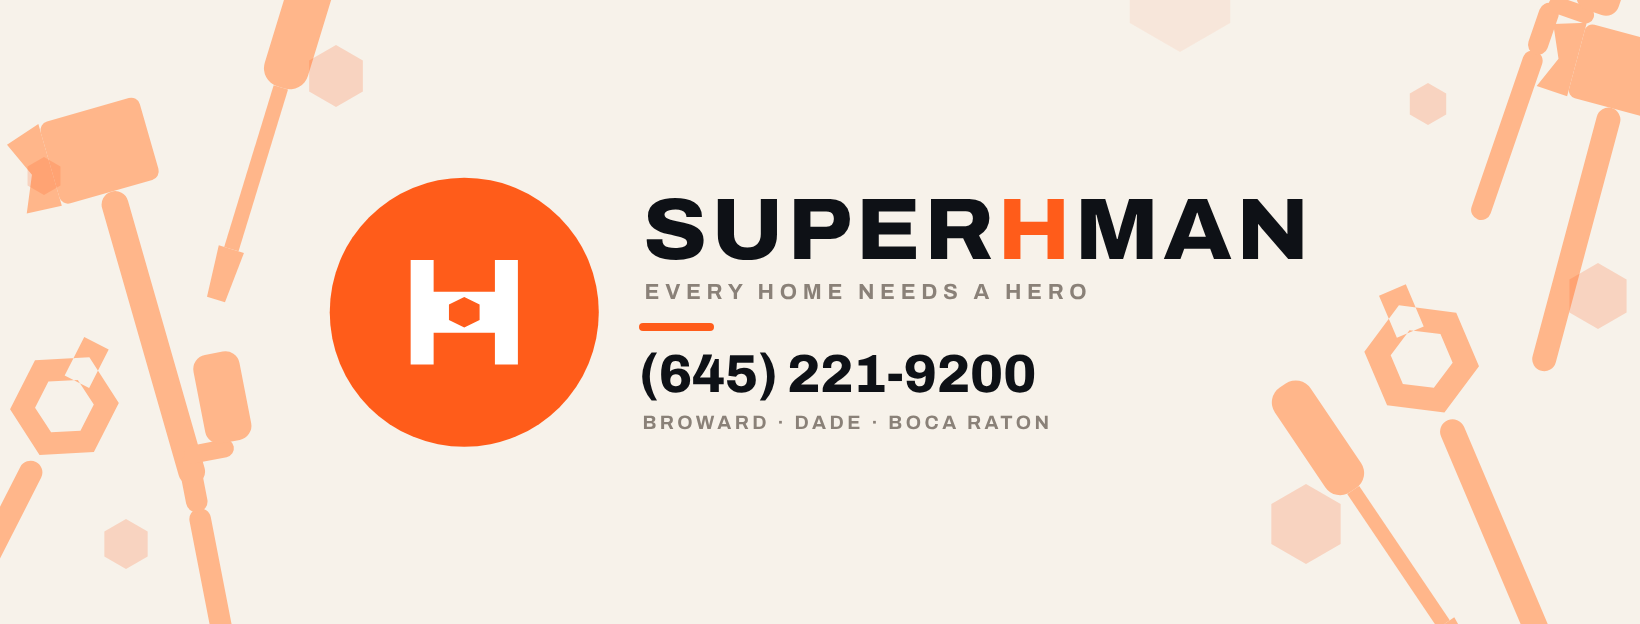
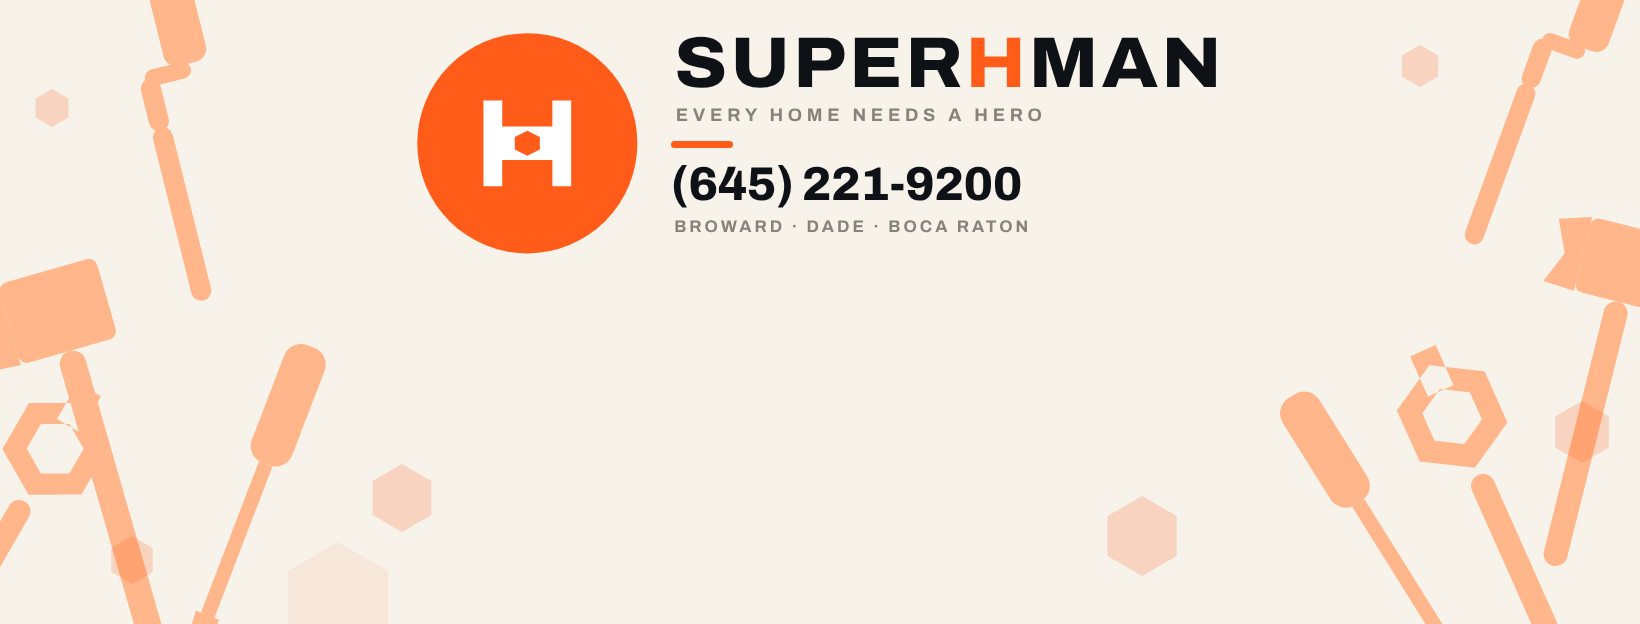
Handyman: keep both FB covers clear of the profile picture
Facebook centres the round profile picture over the cover's bottom
edge, on desktop and phone alike -- not bottom-left as the earlier
comments claimed. It covered the phone number, which Andy's own
setup preview showed.

Both covers now sit the lockup in the top band, nothing below y ~270,
and the illustration moved out from under it. Verified by compositing
a circle at the real position over the rendered PNG.

Claude-Session: https://claude.ai/code/session_01MvQfMaDaGfqE4JGxZjyFS6

diff --git a/design/handyman-card/fb-cover-ilustrada.html b/design/handyman-card/fb-cover-ilustrada.html
@@ -12,9 +12,11 @@
   1. Las herramientas viven SOLO en los tercios de afuera (x < 340 y x > 1300).
      El centro queda de papel limpio para que el emblema y el texto respiren.
   2. El celular recorta los costados y deja más o menos el centro de 1100px,
-     así que lo que se pierde ahí es textura, nunca información. En escritorio
-     Facebook encima la foto de perfil redonda abajo a la izquierda: esa
-     esquina queda sin nada importante.
+     así que lo que se pierde ahí es textura, nunca información.
+  3. Facebook encima la foto de perfil redonda CENTRADA sobre el borde de
+     abajo, tanto en escritorio como en celular. Ocupa más o menos
+     x 640..1000, y 330..624. Por eso el bloque vive arriba: nada baja de
+     y ~260. No mover el lockup al centro vertical.
 -->
 <html lang="en">
 <head>
@@ -38,24 +40,25 @@
     -webkit-print-color-adjust:exact;print-color-adjust:exact;
   }
   .art{position:absolute;inset:0;width:100%;height:100%}
-  .safe{position:absolute;inset:0;display:flex;align-items:center;justify-content:center;gap:6vh}
-  .emblem{width:44vh;height:44vh;flex:none;display:block}
+  .safe{position:absolute;inset:0;display:flex;align-items:flex-start;justify-content:center;
+        gap:5vh;padding-top:5vh}
+  .emblem{width:36vh;height:36vh;flex:none;display:block}
   .word{
-    font-size:14vh;font-weight:800;font-stretch:106%;
+    font-size:11.5vh;font-weight:800;font-stretch:106%;
     letter-spacing:.045em;line-height:.9;text-indent:.045em;white-space:nowrap;
   }
   .word b{color:var(--hero);font-weight:800}
   .tagline{
-    margin-top:1.6vh;font-size:3.5vh;font-weight:700;letter-spacing:.26em;
+    margin-top:1.4vh;font-size:2.9vh;font-weight:700;letter-spacing:.26em;
     text-transform:uppercase;color:var(--muted);text-indent:.26em;white-space:nowrap;
   }
-  .rule{width:12vh;height:1.2vh;background:var(--hero);border-radius:1vh;margin:3.2vh 0 2.8vh}
+  .rule{width:10vh;height:1.1vh;background:var(--hero);border-radius:1vh;margin:2.6vh 0 2.2vh}
   .phone{
-    font-size:8.6vh;font-weight:800;letter-spacing:-.01em;line-height:1;
+    font-size:7.6vh;font-weight:800;letter-spacing:-.01em;line-height:1;
     font-variant-numeric:tabular-nums;white-space:nowrap;
   }
   .zone{
-    margin-top:1.6vh;font-size:3.1vh;font-weight:700;letter-spacing:.18em;
+    margin-top:1.3vh;font-size:2.7vh;font-weight:700;letter-spacing:.18em;
     text-transform:uppercase;color:var(--muted);text-indent:.18em;white-space:nowrap;
   }
 </style>
@@ -97,29 +100,30 @@
 
     <!-- herramientas: solo en los tercios de afuera -->
     <g fill="var(--tool)">
-      <use href="#t-hammer" transform="translate(56 24)    rotate(-16 60 210) scale(1.12)"/>
-      <use href="#t-wrench" transform="translate(-40 286)  rotate(27 60 210)  scale(.98)"/>
-      <use href="#t-driver" transform="translate(214 -88)  rotate(17 60 210)  scale(.94)"/>
-      <use href="#t-roller" transform="translate(148 318)  rotate(-11 60 210) scale(.9)"/>
+      <use href="#t-hammer" transform="translate(16 186)   rotate(-16 60 210) scale(1.1)"/>
+      <use href="#t-wrench" transform="translate(-54 330)  rotate(30 60 210)  scale(.95)"/>
+      <use href="#t-driver" transform="translate(196 296)  rotate(21 60 210)  scale(.9)"/>
+      <use href="#t-roller" transform="translate(118 -52)  rotate(-14 60 210) scale(.84)"/>
 
-      <use href="#t-wrench" transform="translate(1396 236) rotate(-23 60 210) scale(1.04)"/>
-      <use href="#t-hammer" transform="translate(1536 -44) rotate(15 60 210)  scale(1)"/>
-      <use href="#t-driver" transform="translate(1322 312) rotate(-34 60 210) scale(.9)"/>
-      <use href="#t-roller" transform="translate(1474 -124) rotate(19 60 210) scale(.84)"/>
+      <use href="#t-wrench" transform="translate(1432 296) rotate(-24 60 210) scale(1)"/>
+      <use href="#t-hammer" transform="translate(1544 150) rotate(14 60 210)  scale(1)"/>
+      <use href="#t-driver" transform="translate(1326 326) rotate(-32 60 210) scale(.9)"/>
+      <use href="#t-roller" transform="translate(1466 -82) rotate(20 60 210)  scale(.8)"/>
     </g>
 
     <!-- bulones sueltos: el hexágono del monograma, repetido -->
     <g fill="var(--hero)" opacity=".2">
-      <use href="#bolt" transform="translate(336 76)   scale(31)"/>
-      <use href="#bolt" transform="translate(1306 524) scale(40)"/>
-      <use href="#bolt" transform="translate(126 544)  scale(25)"/>
-      <use href="#bolt" transform="translate(1598 296) scale(33)"/>
-      <use href="#bolt" transform="translate(1428 104) scale(21)"/>
-      <use href="#bolt" transform="translate(44 176)   scale(19)"/>
+      <use href="#bolt" transform="translate(402 498)  scale(34)"/>
+      <use href="#bolt" transform="translate(1142 536) scale(40)"/>
+      <use href="#bolt" transform="translate(132 560)  scale(24)"/>
+      <use href="#bolt" transform="translate(1582 432) scale(31)"/>
+      <use href="#bolt" transform="translate(1420 66)  scale(21)"/>
+      <use href="#bolt" transform="translate(52 108)   scale(19)"/>
     </g>
+
     <!-- uno muy suave arriba a la derecha, para que ese lado no quede plano -->
     <g fill="var(--hero)" opacity=".07">
-      <use href="#bolt" transform="translate(1180 -6) scale(58)"/>
+      <use href="#bolt" transform="translate(338 600) scale(58)"/>
     </g>
   </svg>
 

diff --git a/design/handyman-card/fb-cover.html b/design/handyman-card/fb-cover.html
@@ -26,29 +26,30 @@
   html{font-family:'Archivo',system-ui,sans-serif}
   body{
     width:100vw;height:100vh;background:var(--ground);color:var(--ink);
-    display:flex;align-items:center;justify-content:center;overflow:hidden;
+    display:flex;align-items:flex-start;justify-content:center;overflow:hidden;
     -webkit-print-color-adjust:exact;print-color-adjust:exact;
   }
-  .safe{width:66vw;display:flex;flex-direction:column;align-items:center;gap:4.5vh}
+  .safe{width:66vw;display:flex;flex-direction:column;align-items:center;gap:3.4vh;
+        align-self:flex-start;margin-top:6vh}
   .lockup{display:flex;align-items:center;gap:4vh}
-  .mark{width:30vh;height:30vh;color:var(--hero);display:block;flex:none}
+  .mark{width:25vh;height:25vh;color:var(--hero);display:block;flex:none}
   .word{
-    font-size:16vh;font-weight:800;font-stretch:106%;
+    font-size:13vh;font-weight:800;font-stretch:106%;
     letter-spacing:.045em;line-height:.9;text-indent:.045em;white-space:nowrap;
   }
   .word b{color:var(--hero);font-weight:800}
   .tagline{
-    margin-top:1.6vh;font-size:4.2vh;font-weight:700;letter-spacing:.28em;
+    margin-top:1.4vh;font-size:3.4vh;font-weight:700;letter-spacing:.28em;
     text-transform:uppercase;color:var(--muted);text-indent:.28em;white-space:nowrap;
   }
   .foot{display:flex;align-items:center;gap:3.4vh;white-space:nowrap}
   .phone{
-    font-size:9vh;font-weight:800;letter-spacing:-.01em;line-height:1;
+    font-size:7.4vh;font-weight:800;letter-spacing:-.01em;line-height:1;
     font-variant-numeric:tabular-nums;
   }
   .dot{width:1.1vh;height:1.1vh;border-radius:50%;background:var(--hero);flex:none}
   .zone{
-    font-size:3.6vh;font-weight:700;letter-spacing:.2em;text-transform:uppercase;
+    font-size:3vh;font-weight:700;letter-spacing:.2em;text-transform:uppercase;
     color:var(--muted);text-indent:.2em;
   }
 </style>
